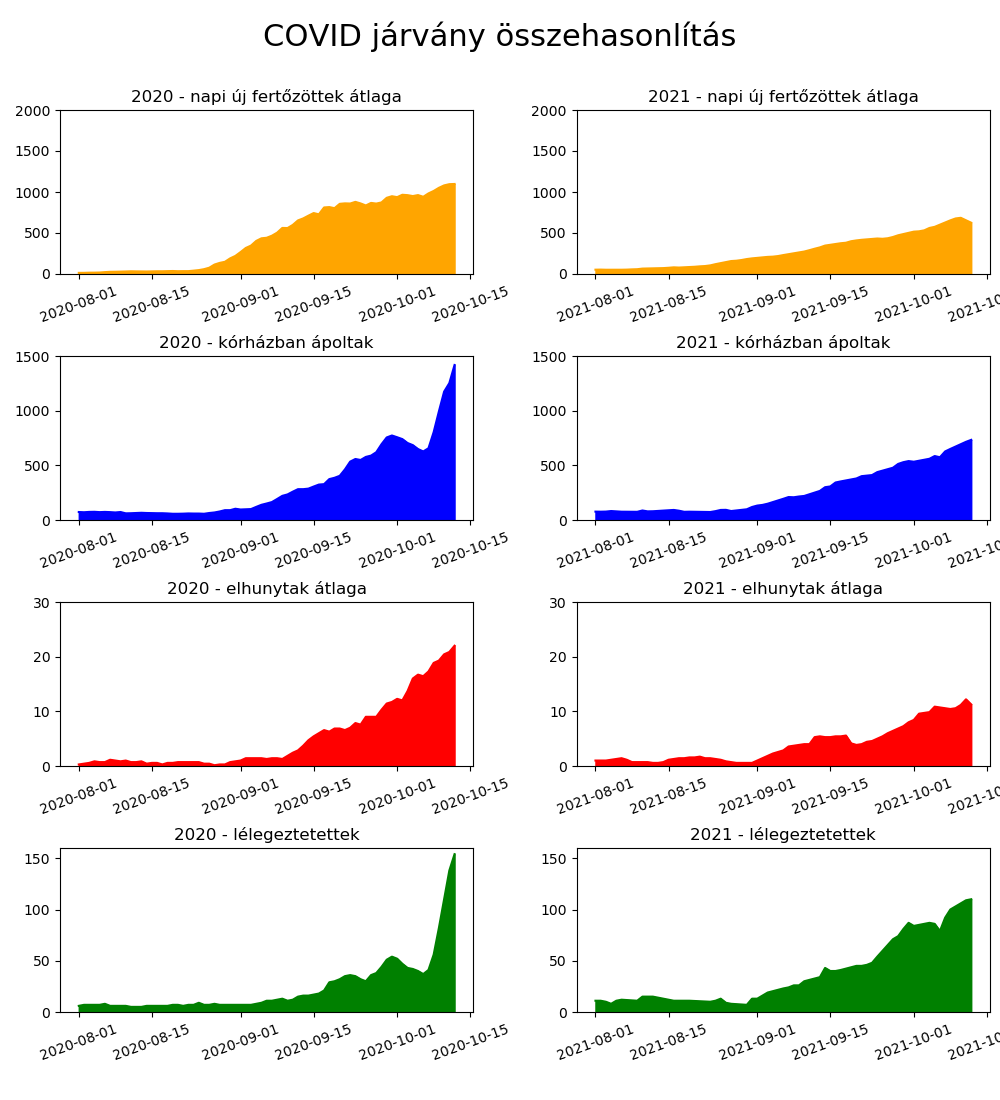
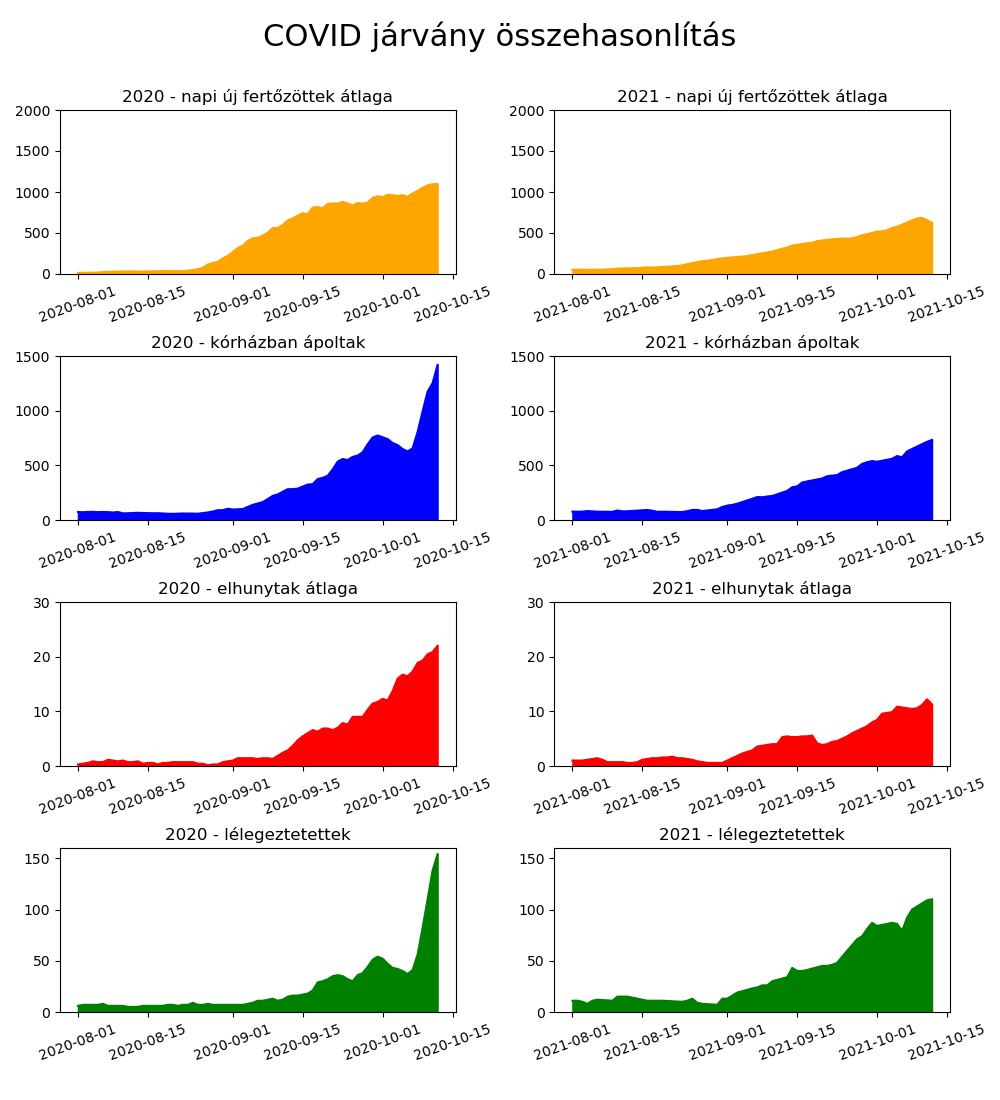
Levágott betűk javítása

diff --git a/kép_összehasonlítás.py b/kép_összehasonlítás.py
@@ -39,7 +39,7 @@ fig=plt.figure(figsize=[10,11])
 spec = gridspec.GridSpec(ncols=2, nrows=4,
                          width_ratios=[1, 1], wspace=0.3,
                          hspace=0.38, height_ratios=[1, 1, 1, 1])
-spec.update(left=0.06,right=0.99,top=0.90,bottom=0.08,wspace=0.25,hspace=0.50)
+spec.update(left=0.06,right=0.95,top=0.90,bottom=0.08,wspace=0.25,hspace=0.50)
 
 
 concatfr = pd.concat([df2020, df2021]).max()
